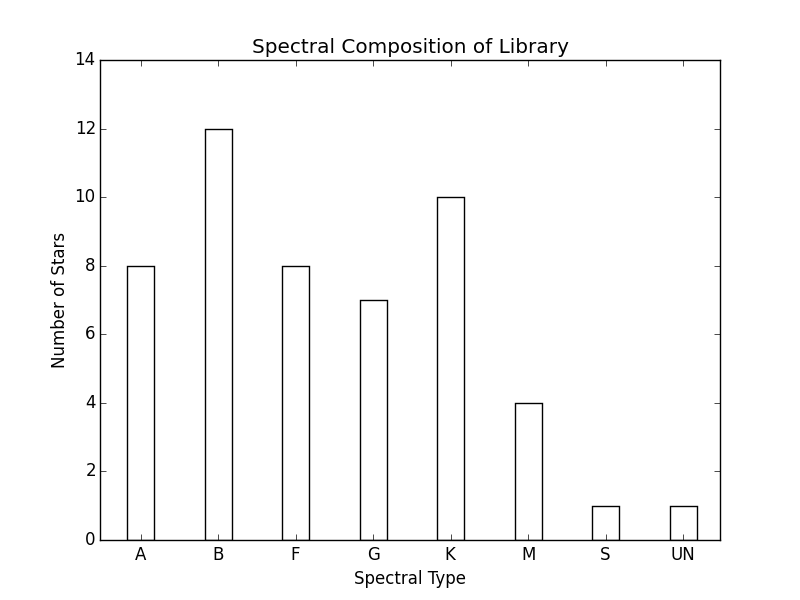
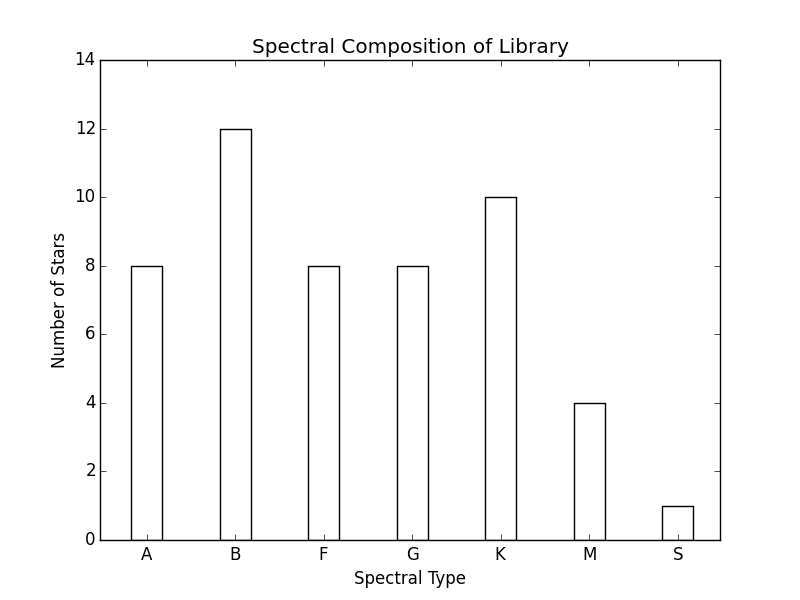
updated sample selection and histograms

diff --git a/section_Sample_Selection.tex b/section_Sample_Selection.tex
@@ -8,15 +8,16 @@ have each star be approximately the same age.
 %This database was built to better classify young stars ($\sim$11~Myr old), making it essential to restrict this atlas to stars of approximately the same age. 
 %To better classify young stars ($\sim$11~Myr old), the more essential restriction on this atlas was that all the stars were approximately the same age.
 Star forming regions are ideal locations for such stars, 
-solidifying the choice of observing upperSco members.  In 
-order to be build a comprehensive atlas of young stars, various
-spectral types needed to be included (from class M to class O).\\
+solidifying the choice of observing upperSco members.  
+Surveying the literature verified all targets as members of this 
+region.  In order to be build a comprehensive atlas of young 
+stars, various spectral types needed to be included 
+(from class M to class O).
+%~[HOW DO WE KNOW THESE ARE UPPERSCO MEMBERS (DO A LIT SEARCH)]\\
 
-~[HOW DO WE KNOW THESE ARE UPPERSCO MEMBERS (DO A LIT SEARCH)]\\
 
 
-
-~[NEED TO ASK JESSICA, HOW THEY DETERMINED WHAT STARS WERE BINARY & WHICH HAD DISKS]\\
+%~[NEED TO ASK JESSICA, HOW THEY DETERMINED WHAT STARS WERE BINARY & WHICH HAD DISKS]\\
 
 Prior to observation, each target star was properly vetted. 
 Stars identified to have binary companions~\cite{binary_guy} or accretion 
@@ -34,7 +35,7 @@ Sifting through catalogs in the literature uncovered established
 spectral classes, at optical wavelengths.    
 References for each previous spectral classification 
 can be found in Table~\ref{tab:maintab}.\\
-~[INCLUDE HISTOGRAM OF N_STARS VS SPT TYPE]
+
 
 
 

diff --git a/layout.md b/layout.md
@@ -2,7 +2,6 @@ section_Introduction_Fubar_We_want__.tex
 section_UROP_Abstract.tex
 section_Sample_Selection.tex
 figures/histogram_of_classes/spectral/histogram_of_spt_classes.png
-figures/histogram_of_classes/luminosity/histogram_of_lum_classes.png
 section_Observations_begin_table_begin__.tex
 section_table.tex
 section_Data_Reduction_and_Analysis__.tex
